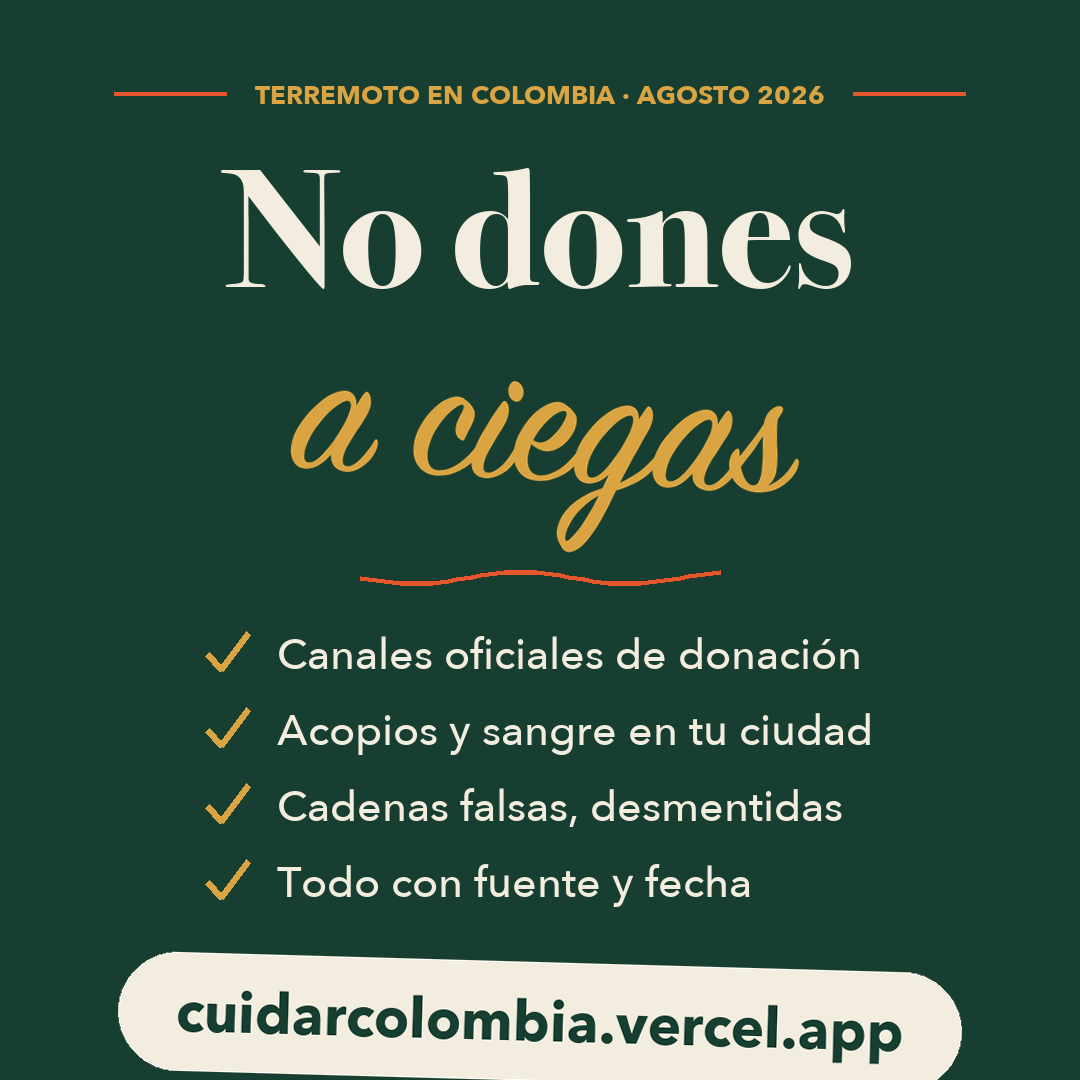
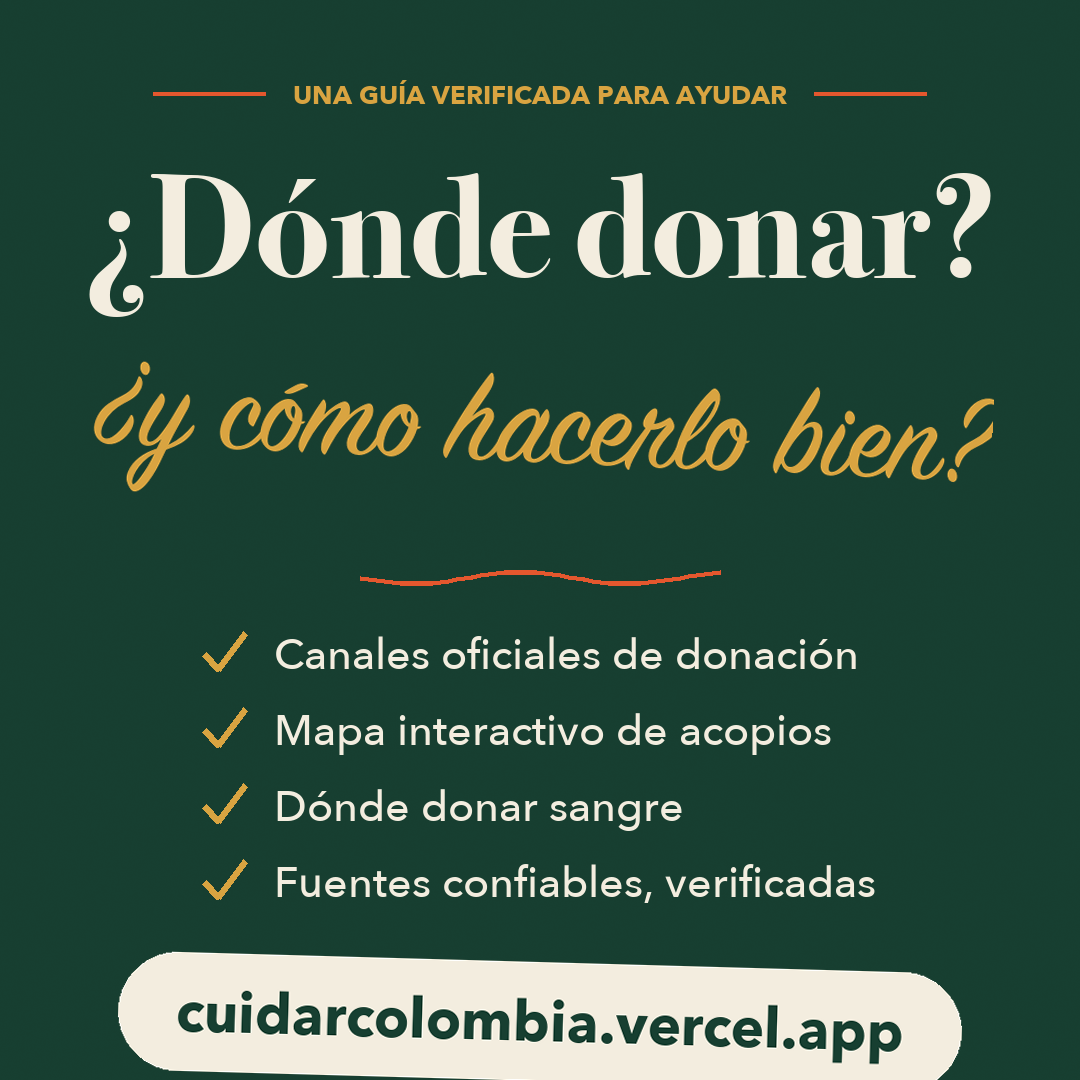
Difusión: pieza tipográfica reenfocada en ayudar (¿Dónde donar? ¿Cómo hacerlo bien?)

diff --git a/scripts/generar_post_texto.py b/scripts/generar_post_texto.py
@@ -27,7 +27,7 @@ def centrado(texto, f, y, color):
 
 # Kicker con filetes
 fk = F('avenir-b', 26)
-tk = 'TERREMOTO EN COLOMBIA · AGOSTO 2026'
+tk = 'UNA GUÍA VERIFICADA PARA AYUDAR'
 wk = d.textlength(tk, font=fk)
 xk = (W - wk) / 2
 d.text((xk, 78), tk, font=fk, fill=ORO)
@@ -35,15 +35,15 @@ d.rectangle([xk - 140, 92, xk - 28, 95], fill=CORAL)
 d.rectangle([xk + wk + 28, 92, xk + wk + 140, 95], fill=CORAL)
 
 # Gancho
-centrado('No dones', F('bodoni-b', 170), 130, CREMA)
+centrado('¿Dónde donar?', F('bodoni-b', 148), 140, CREMA)
 
-acento = Image.new('RGBA', (780, 300), (0, 0, 0, 0))
+acento = Image.new('RGBA', (900, 260), (0, 0, 0, 0))
 da = ImageDraw.Draw(acento)
-fs = F('sign', 195)
-ws = da.textlength('a ciegas', font=fs)
-da.text(((780 - ws) / 2, 20), 'a ciegas', font=fs, fill=ORO)
-acento = acento.rotate(-3, expand=True, resample=Image.BICUBIC)
-img.paste(acento, ((W - acento.width) // 2, 300), acento)
+fs = F('sign', 130)
+ws = da.textlength('¿y cómo hacerlo bien?', font=fs)
+da.text(((900 - ws) / 2, 20), '¿y cómo hacerlo bien?', font=fs, fill=ORO)
+acento = acento.rotate(-2.5, expand=True, resample=Image.BICUBIC)
+img.paste(acento, ((W - acento.width) // 2, 330), acento)
 d = ImageDraw.Draw(img)
 
 # Subrayado a mano
@@ -55,9 +55,9 @@ d.line(puntos, fill=CORAL, width=5, joint='curve')
 
 # Lista con chulos dibujados
 lineas = ['Canales oficiales de donación',
-          'Acopios y sangre en tu ciudad',
-          'Cadenas falsas, desmentidas',
-          'Todo con fuente y fecha']
+          'Mapa interactivo de acopios',
+          'Dónde donar sangre',
+          'Fuentes confiables, verificadas']
 fl = F('avenir', 43)
 ancho_max = max(d.textlength(t, font=fl) for t in lineas)
 x_chulo = (W - ancho_max - 70) / 2
